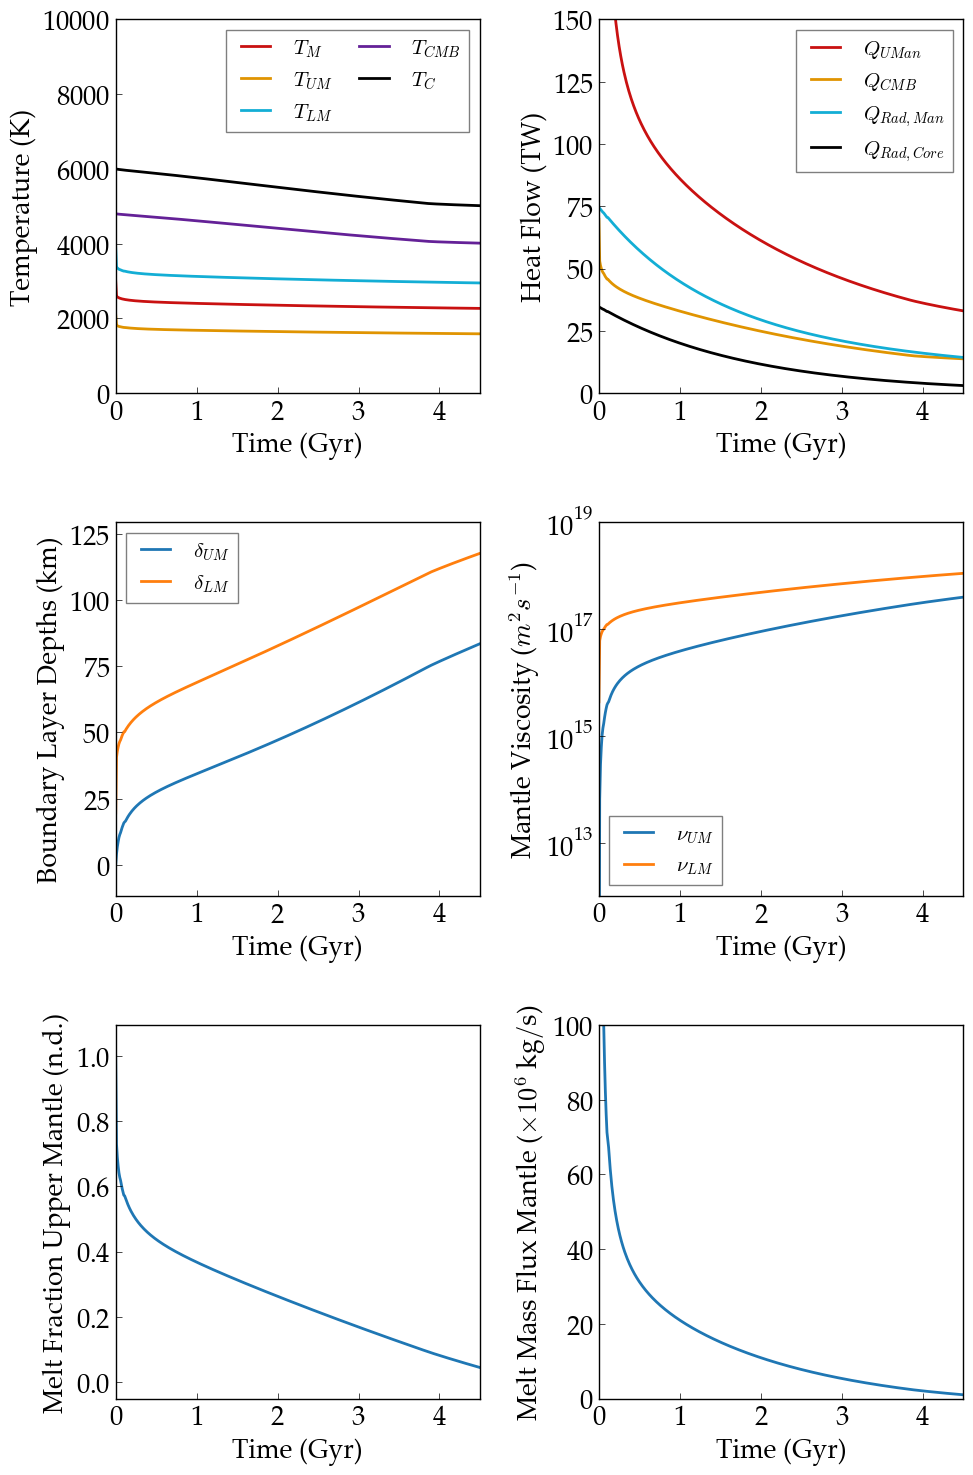
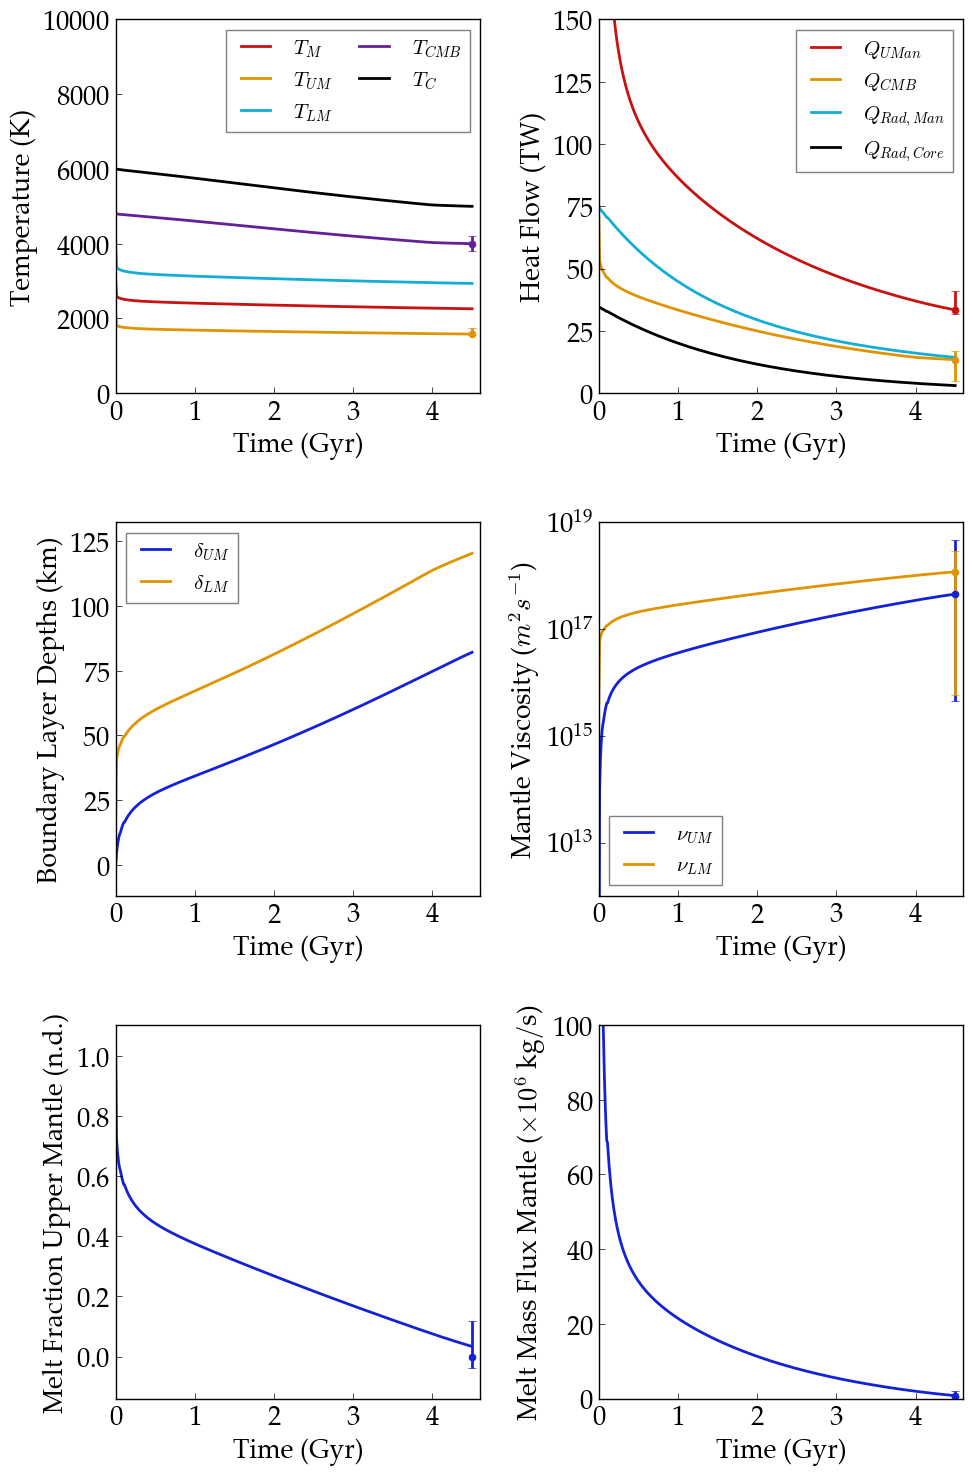
examples/EarthInterior: added errorbars to plot

diff --git a/examples/EarthInterior/makeplot.py b/examples/EarthInterior/makeplot.py
@@ -23,6 +23,35 @@ out = vplot.GetOutput()
 # Print final state
 #print('Final: t=%.3f TUMan=%f TMan=%f TCMB=%f TCore=%f HflowUMan=%.1f HflowCMB=%.1f RadPowerTotal=%f RadPowerMan=%.1f RadPowerCore=%.1f MagMom=%f RIC=%f'%(out.earth.Time[-1],out.earth.TUMan[-1],out.earth.TMan[-1],out.earth.TCMB[-1],out.earth.TCore[-1],out.earth.HflowUMan[-1],out.earth.HflowCMB[-1],out.earth.RadPowerTotal[-1],out.earth.RadPowerMan[-1],out.earth.RadPowerCore[-1],out.earth.MagMom[-1],out.earth.RIC[-1]))
 
+### Uncertainty ranges
+TUMan_ra = np.array([1280.,1475.])+273.        #[K] Jaupart (2015) Table 4.
+TCMB_ra = np.array([3800,4200.])               #[K] Hirose (2013) Table 2.
+HflowUMan_ra = np.array([35,41.])              #[TW] Jaupart (2015) Table 12.
+HflowUMan_ra = np.array([35,41.])               #[TW] Jaupart (2015) Table 12.
+HflowCMB_ra = np.array([5,17])                  #[TW] Jaupart (2015) Table 12.
+ViscUMan_ra = np.array([1.5e19,1.5e22])/3300.  #[m^2/s] Paulson (2005) Fig 3.
+ViscLMan_ra = np.array([3e19,1.5e22])/5200.    #[m^2/s] Paulson (2005) Fig 3.
+MeltMassFlux_ra = np.array([0.52,4*.52])        #[1e6 kg/s] Cogne (2004) 5-15 km^3/yr.  Li (2015) ~20 km^3/yr
+FMeltUMan_ra = np.array([0.07,0.15])            # refs?
+
+### Hi/lo
+TUMan_lo = np.abs(TUMan_ra[0]-out.earth.TUMan[-1])
+TUMan_hi = np.abs(TUMan_ra[1]-out.earth.TUMan[-1])
+TCMB_lo = np.abs(TCMB_ra[0]-out.earth.TCMB[-1])
+TCMB_hi = np.abs(TCMB_ra[1]-out.earth.TCMB[-1])
+HflowUMan_lo = np.abs(HflowUMan_ra[0]-out.earth.HflowUMan[-1])
+HflowUMan_hi = np.abs(HflowUMan_ra[1]-out.earth.HflowUMan[-1])
+HflowCMB_lo = np.abs(HflowCMB_ra[0]-out.earth.HflowCMB[-1])
+HflowCMB_hi = np.abs(HflowCMB_ra[1]-out.earth.HflowCMB[-1])
+ViscUMan_lo = np.abs(ViscUMan_ra[0]-out.earth.ViscUMan[-1])
+ViscUMan_hi = np.abs(ViscUMan_ra[1]-out.earth.ViscUMan[-1])
+ViscLMan_lo = np.abs(ViscLMan_ra[0]-out.earth.ViscLMan[-1])
+ViscLMan_hi = np.abs(ViscLMan_ra[1]-out.earth.ViscLMan[-1])
+MeltMassFlux_lo = np.abs(MeltMassFlux_ra[0]-out.earth.MeltMassFluxMan[-1]*1e-6)
+MeltMassFlux_hi = np.abs(MeltMassFlux_ra[1]-out.earth.MeltMassFluxMan[-1]*1e-6)
+FMeltUMan_lo = np.abs(FMeltUMan_ra[0]-out.earth.FMeltUMan[-1])
+FMeltUMan_hi = np.abs(FMeltUMan_ra[1]-out.earth.FMeltUMan[-1])
+
 # Plots
 rows=3
 cols=2
@@ -33,54 +62,68 @@ panel=1
 plt.subplot(rows,cols,panel)
 plt.plot(out.earth.Time,out.earth.TMan,color=vplot.colors.red,linestyle='-',label=r'$T_{M}$')
 plt.plot(out.earth.Time,out.earth.TUMan,color=vplot.colors.orange,linestyle='-',label=r'$T_{UM}$')
+plt.errorbar(out.earth.Time[-1],out.earth.TUMan[-1],yerr=[[TUMan_lo],[TUMan_hi]],color=vplot.colors.orange,fmt='o')
 plt.plot(out.earth.Time,out.earth.TLMan,color=vplot.colors.pale_blue,linestyle='-',label=r'$T_{LM}$')
 plt.plot(out.earth.Time,out.earth.TCMB,color=vplot.colors.purple,linestyle='-',label=r'$T_{CMB}$')
+plt.errorbar(out.earth.Time[-1],out.earth.TCMB[-1],yerr=[[TCMB_lo],[TCMB_hi]],color=vplot.colors.purple,fmt='-o')
 plt.plot(out.earth.Time,out.earth.TCore,'k-',label=r'$T_{C}$')
 plt.legend(loc='best',ncol=2,frameon=True,columnspacing=1)
 plt.ylabel('Temperature (K)')
 plt.xlabel('Time (Gyr)')
 plt.ylim(0,10000)
+plt.xlim(0,4.6)
 plt.xticks([0,1,2,3,4])
 panel += 1
 plt.subplot(rows,cols,panel)
 plt.plot(out.earth.Time,out.earth.HflowUMan,color=vplot.colors.red,linestyle='-',label=r'$Q_{UMan}$')
+plt.errorbar(out.earth.Time[-1],out.earth.HflowUMan[-1],yerr=[[HflowUMan_lo],[HflowUMan_hi]],color=vplot.colors.red,fmt='o')
 plt.plot(out.earth.Time,out.earth.HflowCMB,color=vplot.colors.orange,linestyle='-',label=r'$Q_{CMB}$')
+plt.errorbar(out.earth.Time[-1],out.earth.HflowCMB[-1],yerr=[[HflowCMB_lo],[HflowCMB_hi]],color=vplot.colors.orange,fmt='o')
 plt.plot(out.earth.Time,out.earth.RadPowerMan,color=vplot.colors.pale_blue,linestyle='-',label=r'$Q_{Rad,Man}$')
 plt.plot(out.earth.Time,out.earth.RadPowerCore,'k-',label=r'$Q_{Rad,Core}$')
 plt.legend(loc='best',frameon=True)
 plt.ylabel('Heat Flow (TW)')
 plt.xlabel('Time (Gyr)')
 plt.ylim(0,150)
+plt.xlim(0,4.6)
 plt.xticks([0,1,2,3,4])
 panel += 1
 plt.subplot(rows,cols,panel)
-plt.plot(out.earth.Time,out.earth.BLUMan,label=r'$\delta_{UM}$')
-plt.plot(out.earth.Time,out.earth.BLLMan,label=r'$\delta_{LM}$')
+plt.plot(out.earth.Time,out.earth.BLUMan,label=r'$\delta_{UM}$',color=vplot.colors.dark_blue)
+plt.plot(out.earth.Time,out.earth.BLLMan,label=r'$\delta_{LM}$',color=vplot.colors.orange)
 plt.legend(loc='best',frameon=True)
 plt.ylabel(r'Boundary Layer Depths (km)')
 plt.xlabel('Time (Gyr)')
+plt.xlim(0,4.6)
 plt.xticks([0,1,2,3,4])
 panel += 1
 plt.subplot(rows,cols,panel)
-plt.semilogy(out.earth.Time,out.earth.ViscUMan,label=r'$\nu_{UM}$')
-plt.semilogy(out.earth.Time,out.earth.ViscLMan,label=r'$\nu_{LM}$')
+plt.semilogy(out.earth.Time,out.earth.ViscUMan,label=r'$\nu_{UM}$',color=vplot.colors.dark_blue)
+plt.errorbar(out.earth.Time[-1],out.earth.ViscUMan[-1],yerr=[[ViscUMan_lo],[ViscUMan_hi]],color=vplot.colors.dark_blue,fmt='o')
+plt.semilogy(out.earth.Time,out.earth.ViscLMan,label=r'$\nu_{LM}$',color=vplot.colors.orange)
+plt.errorbar(out.earth.Time[-1],out.earth.ViscLMan[-1],yerr=[[ViscLMan_lo],[ViscLMan_hi]],color=vplot.colors.orange,fmt='o')
 plt.legend(loc='best',frameon=True)
 plt.ylabel(r'Mantle Viscosity ($m^2s^{-1}$)')
 plt.xlabel('Time (Gyr)')
 plt.ylim(1e12,1e19)
+plt.xlim(0,4.6)
 plt.xticks([0,1,2,3,4])
 panel += 1
 plt.subplot(rows,cols,panel)
-plt.plot(out.earth.Time,out.earth.FMeltUMan)
+plt.plot(out.earth.Time,out.earth.FMeltUMan,color=vplot.colors.dark_blue)
+plt.errorbar(out.earth.Time[-1],out.earth.FMeltUMan[-1]*1e-6,yerr=[[FMeltUMan_lo],[FMeltUMan_hi]],color=vplot.colors.dark_blue,fmt='o')
 plt.ylabel(r'Melt Fraction Upper Mantle (n.d.)')
 plt.xlabel('Time (Gyr)')
+plt.xlim(0,4.6)
 plt.xticks([0,1,2,3,4])
 panel += 1
 plt.subplot(rows,cols,panel)
-plt.plot(out.earth.Time,out.earth.MeltMassFluxMan*1e-6)
+plt.plot(out.earth.Time,out.earth.MeltMassFluxMan*1e-6,color=vplot.colors.dark_blue)
+plt.errorbar(out.earth.Time[-1],out.earth.MeltMassFluxMan[-1]*1e-6,yerr=[[MeltMassFlux_lo],[MeltMassFlux_hi]],color=vplot.colors.dark_blue,fmt='o')
 plt.ylabel(r'Melt Mass Flux Mantle ($\times 10^6$ kg$/$s)')
 plt.xlabel('Time (Gyr)')
 plt.ylim(0,100)
+plt.xlim(0,4.6)
 plt.xticks([0,1,2,3,4])
 
 vplot.make_pretty(fig)
